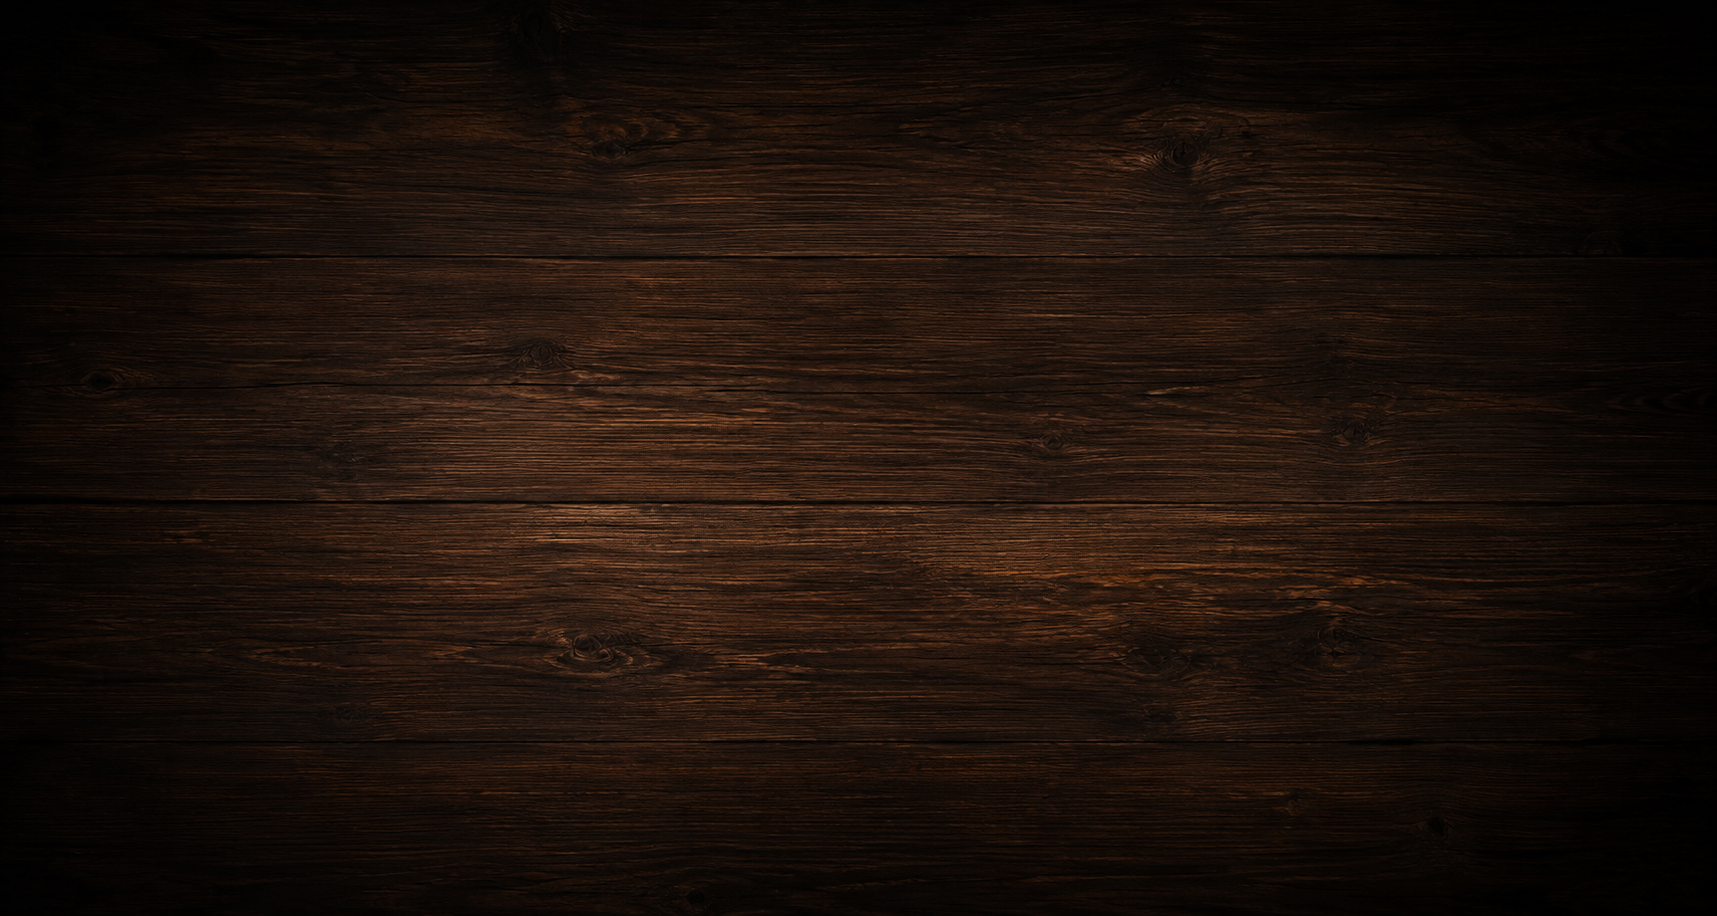
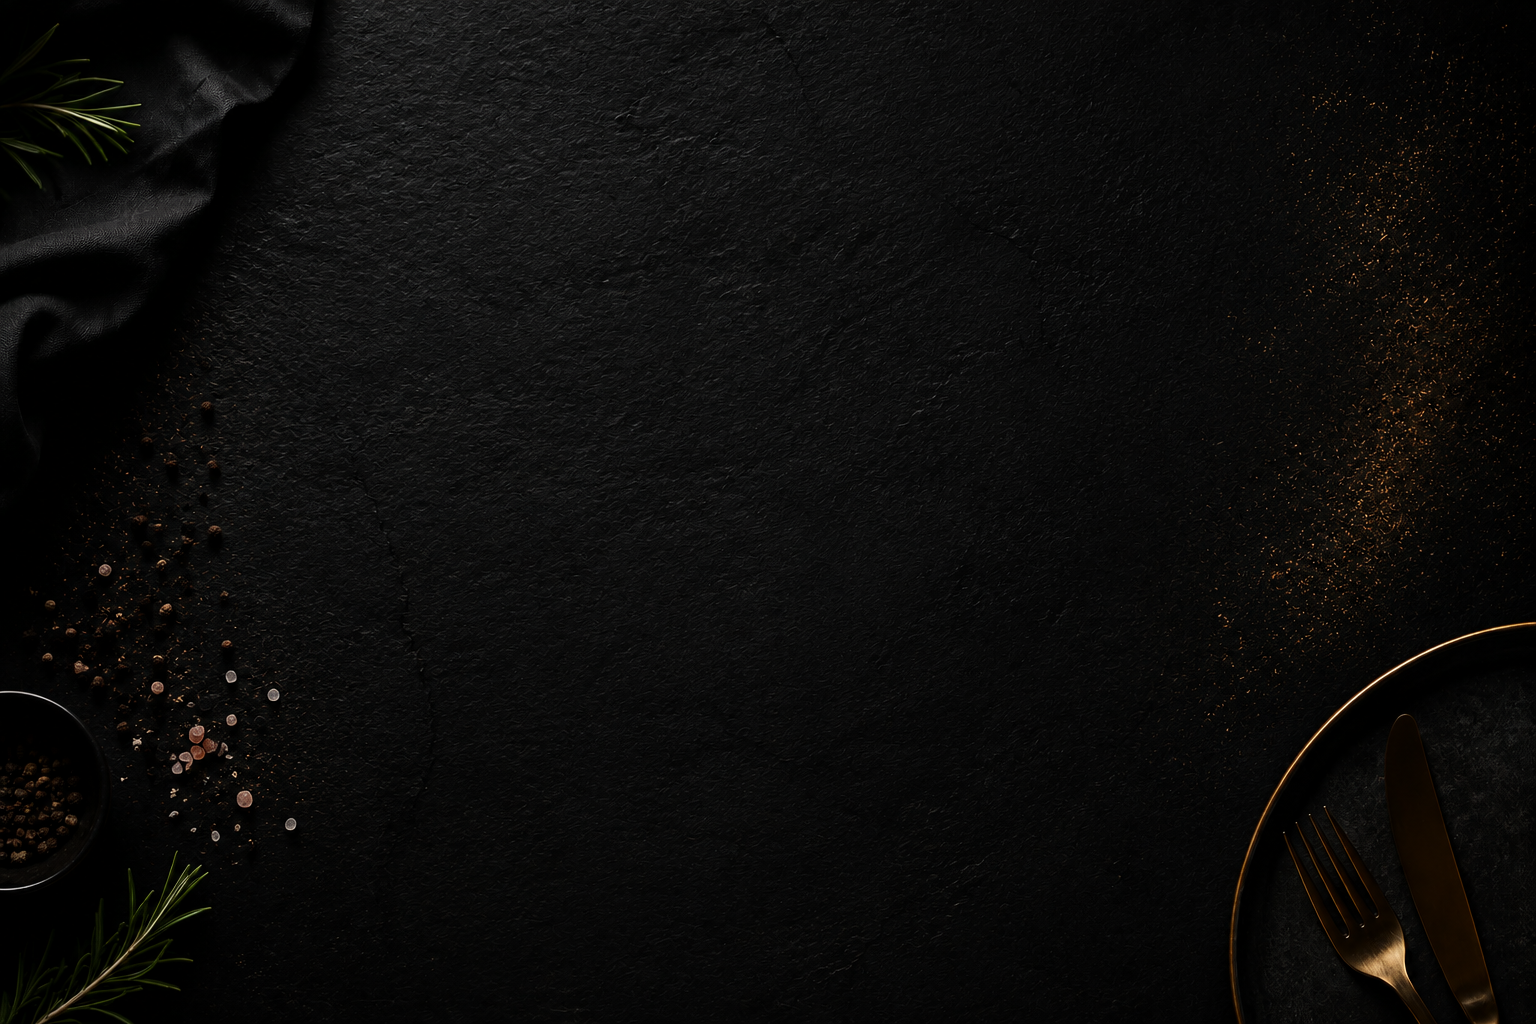
agregamos estilos responsivos

diff --git a/css/style.css b/css/style.css
@@ -76,6 +76,14 @@ p{
     color: black;
 }
 
+.navbar-burger{
+    color: #C89B3C;
+}
+
+.navbar-menu {
+    text-align: center; 
+}
+
 /*Hero*/
 
 .heroHome{
@@ -317,14 +325,12 @@ p{
 /*Menú*/
 
 .menu{
-    background-image: 
-    /*linear-gradient(rgba(48, 22, 1, 0.5)),
-    linear-gradient(rgba(255, 255, 255, 0.05)),*/
-    url(../image/cocina.webp);
+    background-image: url(../image/fondoMenu.png);
     background-size: cover;
     background-repeat: no-repeat;
     background-position: center;
 }
+
 
 .tituloMenu{
     padding-top: 3rem;
@@ -339,6 +345,7 @@ p{
     text-align: center;
     color: #F1DDBF;
 }
+
 
 .menuContainer{
     padding: 2rem;
@@ -360,6 +367,7 @@ p{
 
 .imagenMenu img{
     border: 1px solid #C89B3C;
+    border-radius: 20px;
 }
 
 .menuCarta{
@@ -373,10 +381,15 @@ p{
     text-align: center;
 }
 
+.oculto{
+    display: none;
+}
+
 .subtituloMenu{
     font-size: 2rem;
     text-align: center;
 }
+
 
 .platos{
     display: flex;
@@ -384,10 +397,11 @@ p{
 }
 
 .platos p{
-    font-size: 1rem;
+    font-size: 1rem;;
 }
 
 @media (max-width: 768px) {
+
     .menuCarta{
     padding: 2rem 1rem;
     }

diff --git a/js/menu.js b/js/menu.js
@@ -20,12 +20,17 @@ botones.forEach(boton => {
 
 function mostrarMenu(categoria){
     const contenedor = document.querySelector(".descripcionMenu"); 
+    const subtitulo = document.querySelector(".subtituloMenu");
 
-    contenedor.innerHTML = ""; 
+    contenedor.classList.remove("oculto"); 
 
+    subtitulo.textContent = categoria.toUpperCase();
+    subtitulo.classList.remove("oculto");
+    
+    contenedor.innerHTML = "";  
+    
     menu.forEach(plato => {
         if(plato.categoria === categoria){
-            document.querySelector(".subtituloMenu").textContent = categoria.toUpperCase();
             contenedor.innerHTML += `
             <div class="platos">
                 <p>${plato.plato}</p>
@@ -33,6 +38,8 @@ function mostrarMenu(categoria){
             </div>
             `
         }
-})
+    }
+        
+)
 }
 

diff --git a/index.html b/index.html
@@ -151,7 +151,7 @@
     <section id="menu" class="menu">
         <div class="tituloMenu">
             <h4>Nuestro</h4>
-            <h2>Menú</h2>
+            <h2>MENÚ</h2>
         </div>
         <div class="menuContainer">
             <div class="imagenMenu">
@@ -165,8 +165,8 @@
             </div>
         </div>
         <div class="menuCarta">
-            <h2 class="subtituloMenu">CARNES</h2>
-            <div class="descripcionMenu">
+            <h2 class="subtituloMenu oculto">CARNES</h2>
+            <div class="descripcionMenu oculto">
                 
             </div>
         </div>
@@ -292,5 +292,6 @@
     </footer>
 
 <script src="js/menu.js"></script>
+<script src="js/navbar.js"></script>
 </body>
 </html>

diff --git a/js/navbar.js b/js/navbar.js
@@ -1,0 +1,21 @@
+document.addEventListener('DOMContentLoaded', () => {
+
+  const burger = document.querySelector('.navbar-burger');
+  const menu = document.querySelector('.navbar-menu');
+
+  // Abrir / cerrar hamburguesa
+  burger.addEventListener('click', () => {
+    burger.classList.toggle('is-active');
+    menu.classList.toggle('is-active');
+  });
+
+  //  Cerrar menú al hacer click en cualquier link
+  menu.addEventListener('click', (e) => {
+    if (e.target.classList.contains('navbar-item')) {
+      burger.classList.remove('is-active');
+      menu.classList.remove('is-active');
+    }
+  });
+
+});
+
